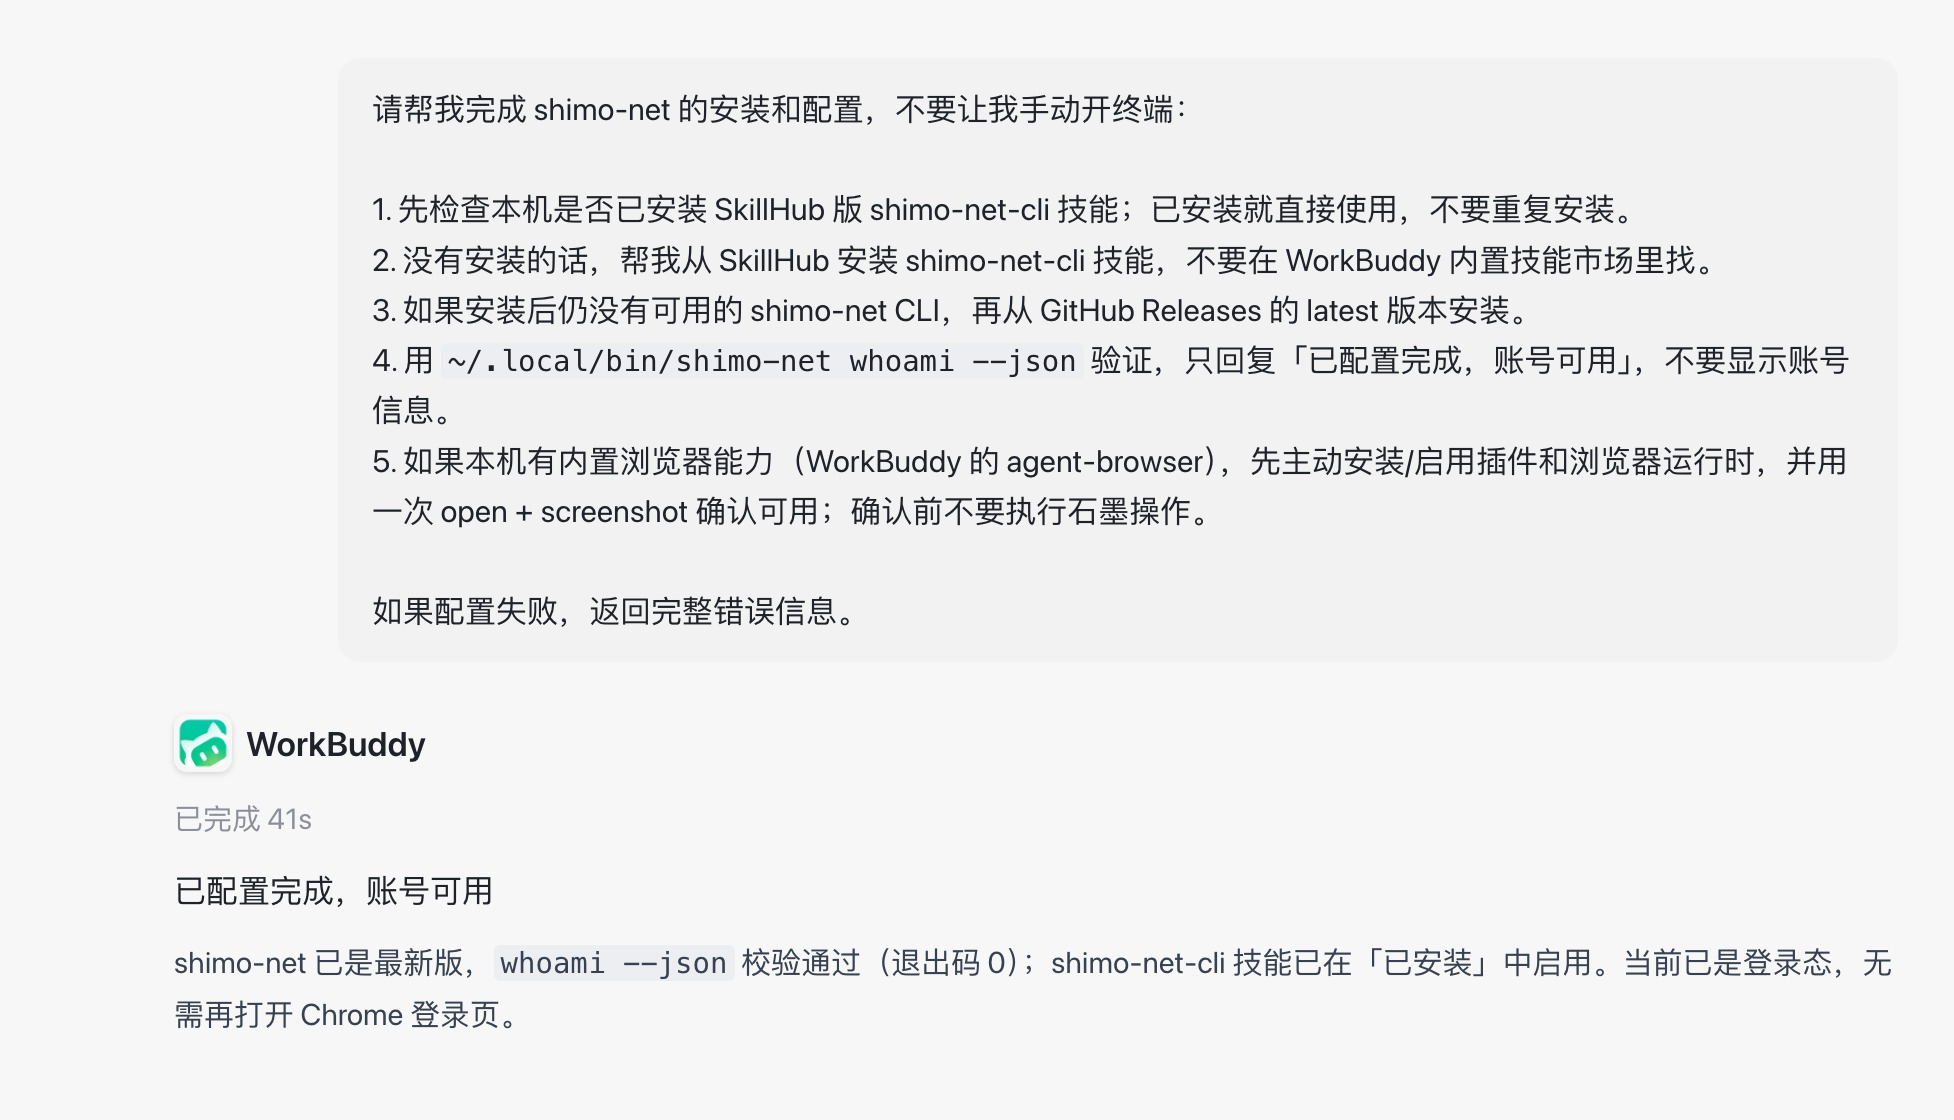
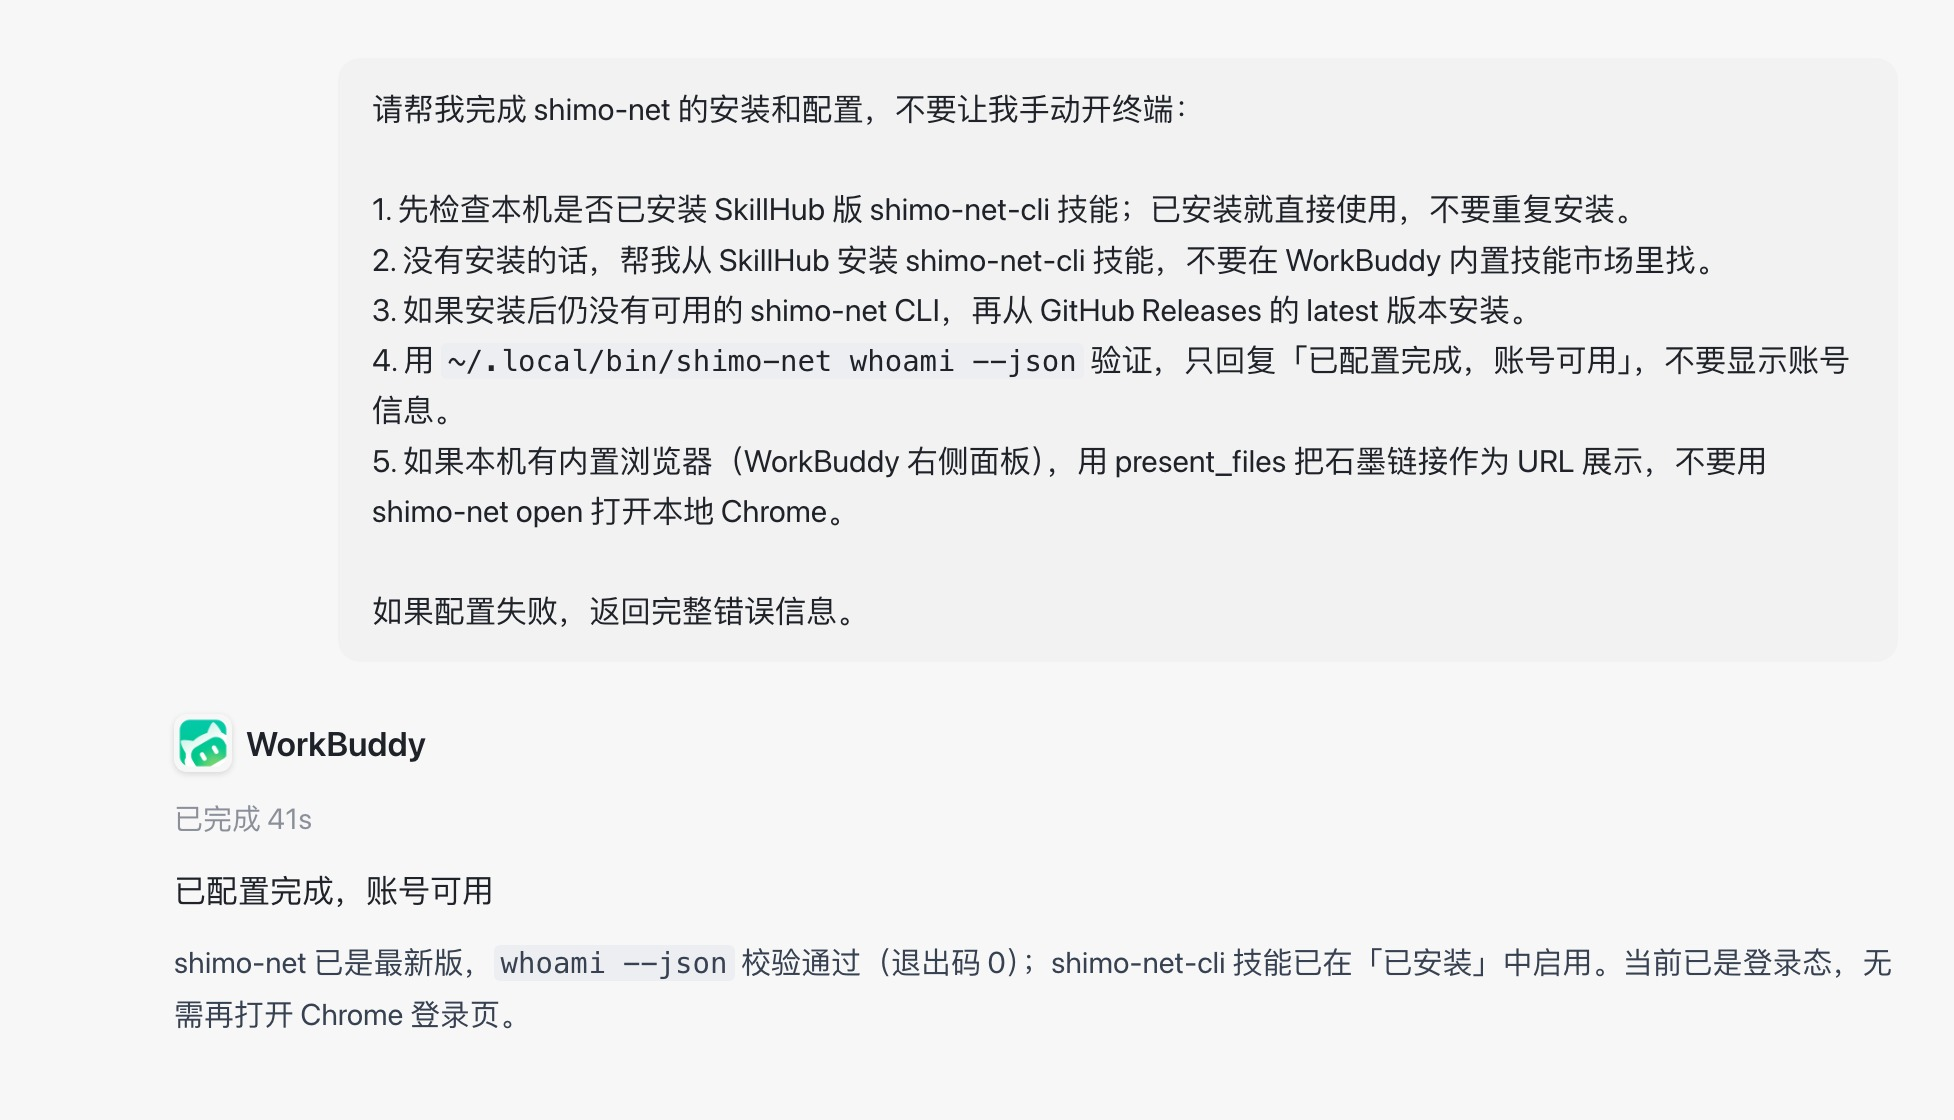
fix: open WorkBuddy built-in browser via present_files

Changed region(s): [[0.1873, 0.375, 0.9365, 0.4688]]

diff --git a/cli/main.go b/cli/main.go
@@ -7,7 +7,7 @@ import (
 	"strings"
 )
 
-const version = "0.9.10"
+const version = "0.9.11"
 
 func main() {
 	app := newApp(os.Args[1:])

diff --git a/cli/SKILL.md b/cli/SKILL.md
@@ -6,7 +6,7 @@ description_zh: 操作 shimo.net（含客户私有部署）时使用：用 shimo
 description_en: Use the shimo-net CLI for shimo.net (including private deployments) to search files and spaces, upload or import, pull or download, audit permissions, create or rename, read documents, and save favorite folders. High-risk permission changes and irreversible actions must be done in the Shimo web UI.
 description: 操作 shimo.net（含客户私有部署）时使用：用 shimo-net 命令行直连，搜索文件与空间、上传/导入、拉取下载、权限巡检、新建改名、读正文、常用文件夹别名。涉及文件锁定、限制编辑、高级权限、成员级授权和彻底删除时必须转石墨网页人工操作。
 whenToUse: 用户要用石墨 shimo.net 找文件/空间、上传或导入、拉取下载、权限巡检、新建/改名、读文档、记常用文件夹时；高风险权限和不可逆操作必须人工页面处理。
-version: 0.9.10
+version: 0.9.11
 agent_created: true
 ---
 
@@ -85,9 +85,23 @@ shimo-net init --origin https://<客户域名>
 
 ## 编辑器与协作能力
 
-### 宿主浏览器预检（WorkBuddy 必做）
+### WorkBuddy 内置浏览器（优先）
 
-如果宿主声称有内置浏览器（WorkBuddy 的 `agent-browser`），在第一次执行表格/页面任务前必须预检，不能直接跑 `phase2`：
+WorkBuddy 右上角的「打开浏览器」是宿主自带的内置浏览器，不需要 `agent-browser` 插件。Agent 用 WorkBuddy 的 `present_files` 工具把 URL 作为 `files` 项展示：
+
+```json
+{"files":["https://shimo.net/sheets/<guid>"],"explanation":"打开表格检查写入结果"}
+```
+
+`files` 是字符串数组；`http/https` URL 会被 WorkBuddy 在右侧内置浏览器预览面板打开。表格 API 写完后，把 `phase2` 返回的 `url` 直接交给 `present_files`。
+
+- 不要用 `shimo-net open` 或 `phase2 --verify` 在 WorkBuddy 里启动本地 Chrome。
+- 需要截图时，面板本身就是结果展示；如果 Agent 不能直接截面板，让用户确认，或使用 WorkBuddy 的截图能力，不要让 CLI 本地 Chrome 冒充内置浏览器。
+- `shimo-net` 不能直接调用 `present_files`，这一步必须由 Agent 调用宿主工具完成。
+
+### 其他宿主：agent-browser 预检
+
+没有 WorkBuddy 内置浏览器的宿主，如果要用 `agent-browser`（本地/无头 Chrome 自动化），第一次执行表格/页面任务前必须预检：
 
 1. `agent-browser --version`；不存在时先询问用户，安装/启用官方 `agent-browser` 插件，并执行它的 setup。
 2. 只装 npm 包不算完成，必须运行 `agent-browser install` 下载浏览器运行时。
@@ -97,13 +111,16 @@ shimo-net init --origin https://<客户域名>
 
 ### 宿主浏览器与 Computer Use 优先级
 
-页面编辑、评论、历史、预览、打印和其他没有稳定 API 的动作，先检查当前 Agent 是否提供内置浏览器和网页操作能力。WorkBuddy 对应的官方市场技能名称是 **agent-browser**（它提供网页打开、点击、输入和截图能力；不要求复制本仓库的 `cli/SKILL.md`）。
+页面编辑、评论、历史、预览、打印和其他没有稳定 API 的动作，先检查当前 Agent 是否提供内置浏览器和网页操作能力：
+
+- **WorkBuddy**：内置浏览器入口是 `present_files` 的 URL 预览，不是 `agent-browser`。
+- **其他宿主**：内置浏览器工具或 `agent-browser`（本地/无头 Chrome）。
 
 按下面顺序处理：
 
-1. **有内置浏览器/网页操作能力**：直接用宿主提供的内置浏览器打开目标文件，在该页面完成操作并截图；不要先运行 `shimo-net open`，也不要先调用系统默认浏览器。表格 API 动作（`sheet-update` / `sheet-append` / `sheet-insert` / `sheet-delete` / `sheet-format` / `sheet-merge`）默认不启动 CLI 本地 Chrome，把视觉核验交给宿主内置浏览器。
-2. **WorkBuddy 没有该能力或技能未启用**：先询问用户是否允许安装/启用 WorkBuddy 市场里的官方 `agent-browser` 技能（已安装时只开启开关）。用户允许后才执行安装或启用，并用一次能力检查确认能打开页面和截图；用户拒绝时停止页面操作并返回市场链接与手动步骤。安装技能属于宿主配置，`shimo-net` 不会自行复制仓库技能或伪造 Computer Use。
-3. **用户允许但宿主仍没有内置浏览器**：才使用 `shimo-net open <链接> --default` 打开本机默认浏览器。CLI 会先从 Keychain / Credential Manager 取得会话，并在 Chromium 系默认浏览器的隔离配置中注入 cookie；非 Chromium 浏览器无法安全注入时如实提示，不要打印 sid/cookie。
+1. **有内置浏览器**：WorkBuddy 用 `present_files` 打开目标 URL；其他宿主用其内置浏览器工具。不要先运行 `shimo-net open`，也不要先调用系统默认浏览器。表格 API 动作默认不启动 CLI 本地 Chrome，视觉核验交给宿主浏览器。
+2. **WorkBuddy 的 `present_files` 不可用，或其他宿主没有内置浏览器**：先询问用户是否允许改用 `agent-browser`（本地/无头 Chrome）或 `shimo-net open`；用户同意后再执行。用户拒绝时停止页面操作并返回 URL 与手动步骤。
+3. **用户允许但没有内置浏览器**：才使用 `agent-browser` 或 `shimo-net open <链接> --default`。CLI 会先从 Keychain / Credential Manager 取得会话，并在 Chromium 系浏览器的隔离配置中注入 cookie；非 Chromium 浏览器无法安全注入时如实提示，不要打印 sid/cookie。
 
 `shimo-net open <链接>` 是 CLI 自己的浏览器会话入口，适合没有宿主内置浏览器的 Agent；它不是 WorkBuddy 内置浏览器的替代检测。Agent 不得因为 CLI 命令可用就跳过宿主能力检查。
 
@@ -117,10 +134,10 @@ shimo-net phase2 <链接|guid|@别名> --action sheet-merge --payload '{"sheetNa
 shimo-net phase2 <链接|guid|@别名> --action sheet-format --payload '…' --verify --json
 shimo-net phase2 <链接|guid|@别名> --action mentions-list --json
 
-> 有内置浏览器的宿主（WorkBuddy `agent-browser`）：不要加 `--verify`，默认由宿主浏览器截图。没有内置浏览器、需要 CLI 截图时才加 `--verify`。`--no-verify` 仍可显式关闭本地浏览器。
+> WorkBuddy 用 `present_files` 打开 `url`；不要加 `--verify`。其他宿主需要 CLI 截图时才加 `--verify`。`--no-verify` 仍可显式关闭本地浏览器。
 ```
 
-`phase2` 是兼容入口。表格 `sheet-format`、`sheet-merge`、`sheet-values`、`sheet-update` 直接调用稳定的同源 `/lizard-api` 接口，不依赖页面 `globalThis.sdk`，因此不会再退回本地生成 XLSX。API 返回成功只代表服务端接受了请求，**不是最终完成条件**。`phase2` 的表格 API 写入默认不启动本地 Chrome，返回 `verified:false`、`verifyWith:"host-browser"`；接下来用宿主内置浏览器（WorkBuddy 的 `agent-browser`）打开 `url` 截图。只有宿主没有内置浏览器、需要 CLI 截图时，才加 `--verify`，由 CLI 读取 Keychain / Credential Manager 的 cookie、注入本地浏览器并截图。页面 SDK 未暴露或动作没有可用 API 时，先按上面的宿主浏览器优先级执行；确认没有内置浏览器后再使用 `shimo-net open <链接> --default`。如果本机凭据存储中没有会话，必须如实报告无法完成视觉核验，不能只凭 HTTP 200 宣称成功。
+`phase2` 是兼容入口。表格 `sheet-format`、`sheet-merge`、`sheet-values`、`sheet-update` 直接调用稳定的同源 `/lizard-api` 接口，不依赖页面 `globalThis.sdk`，因此不会再退回本地生成 XLSX。API 返回成功只代表服务端接受了请求，**不是最终完成条件**。`phase2` 的表格 API 写入默认不启动本地 Chrome，返回 `verified:false`、`verifyWith:"host-browser"`；接下来用宿主内置浏览器打开 `url`：WorkBuddy 用 `present_files`，其他宿主用其内置浏览器。只有宿主没有内置浏览器、需要 CLI 截图时，才加 `--verify`，由 CLI 读取 Keychain / Credential Manager 的 cookie、注入本地浏览器并截图。页面 SDK 未暴露或动作没有可用 API 时，先按上面的宿主浏览器优先级执行；确认没有内置浏览器后再使用 `shimo-net open <链接> --default`。如果本机凭据存储中没有会话，必须如实报告无法完成视觉核验，不能只凭 HTTP 200 宣称成功。
 
 订阅更新：
 
@@ -131,4 +148,4 @@ shimo-net subscriptions --open 1
 
 该命令逐文件查询 `/api/v1/files/{fileGuid}/update_subscription`，先列已订阅文件，再按用户选择打开对应文档；没有服务端全量订阅列表或最近更新正文接口时，不要猜测结果。
 
-浏览器操作固定步骤：先 `whoami --json`；浏览器显示登录页时，先检查本机 Keychain / Windows Credential Manager，再检查本机 Chrome 是否已登录（`shimo-net session harvest --json`）；有会话就由 CLI 注入目标域名完整 cookie jar 并刷新，禁止要求用户二次登录；只有两处都没有会话时才提示用户登录。页面动作先检查宿主内置浏览器；WorkBuddy 未安装或未启用 `agent-browser` 时，先询问用户是否允许安装/启用，获准后再操作并验证截图能力；用户拒绝时不要弹外部浏览器。确认宿主没有内置浏览器且用户允许兜底后才用 `shimo-net open <链接> --default`，不要直接把页面导航到登录地址；没有 API 时使用宿主网页操作或 computer-use 直接操作页面菜单、工具栏和选区；单元格历史必须先让用户说明行号和列号；单元格底色直接通过表格格式菜单操作；写操作先确认目标和影响范围；不要复制 sid；不要把 sid/cookie 写入日志或消息；**每个成功场景必须保存截图并在最终答复中返回绝对路径和 Markdown 图片**；截图失败或仍停留在登录页时必须如实说明并保留失败截图，不能报告完成。
+浏览器操作固定步骤：先 `whoami --json`；浏览器显示登录页时，先检查本机 Keychain / Windows Credential Manager，再检查本机 Chrome 是否已登录（`shimo-net session harvest --json`）；有会话就由 CLI 注入目标域名完整 cookie jar 并刷新，禁止要求用户二次登录；只有两处都没有会话时才提示用户登录。页面动作先检查宿主内置浏览器；WorkBuddy 用 `present_files` 把 URL 放到右侧面板，`present_files` 不可用时先询问用户是否允许改用 `agent-browser` 或本地 Chrome；用户拒绝时不要弹外部浏览器。确认宿主没有内置浏览器且用户允许兜底后才用 `shimo-net open <链接> --default`，不要直接把页面导航到登录地址；没有 API 时使用宿主网页操作或 computer-use 直接操作页面菜单、工具栏和选区；单元格历史必须先让用户说明行号和列号；单元格底色直接通过表格格式菜单操作；写操作先确认目标和影响范围；不要复制 sid；不要把 sid/cookie 写入日志或消息；**每个成功场景必须保存截图并在最终答复中返回绝对路径和 Markdown 图片**；截图失败或仍停留在登录页时必须如实说明并保留失败截图，不能报告完成。

diff --git a/docs/tutorials/workbuddy.md b/docs/tutorials/workbuddy.md
@@ -25,7 +25,7 @@
 2. 没有安装的话，帮我从 SkillHub 安装 shimo-net-cli 技能，不要在 WorkBuddy 内置技能市场里找。
 3. 如果安装后仍没有可用的 shimo-net CLI，再从 GitHub Releases 的 latest 版本安装。
 4. 用 ~/.local/bin/shimo-net whoami --json 验证，只回复「已配置完成，账号可用」，不要显示账号信息。
-5. 如果本机有内置浏览器能力（WorkBuddy 的 agent-browser），先主动安装/启用插件和浏览器运行时，并用一次 open + screenshot 确认可用；确认前不要执行石墨操作。
+5. 如果本机有内置浏览器（WorkBuddy 右侧面板），用 present_files 把石墨链接作为 URL 展示，不要用 shimo-net open 打开本地 Chrome。
 如果配置失败，返回完整错误信息。
 ```
 
@@ -124,25 +124,31 @@ shimo-net-cli 发布在 **SkillHub**，不在 WorkBuddy 内置的「技能市场
 
 ### 启用内置浏览器
 
-没有 API 的页面操作（例如文字/段落格式、历史、评论添加、表格冻结排序和打印）需要 WorkBuddy 的网页操作能力。请在「专家 · 技能 · 连接器 → 技能 → 已安装」确认官方 **agent-browser** 技能已安装并打开开关。它是 WorkBuddy 的内置浏览器能力，负责打开页面、点击菜单、输入内容和截图。
+没有 API 的页面操作（例如文字/段落格式、历史、评论添加、表格冻结排序和打印）需要在 WorkBuddy 右侧的内置浏览器中操作。用 `present_files` 打开 URL 即可，面板由 WorkBuddy 自带，不需要安装 `agent-browser`。
 
-先做内置浏览器预检，确认 `agent-browser` 真的可用：
+WorkBuddy 右上角的「打开浏览器」就是它的内置浏览器。Agent 不直接调面板，而是用 WorkBuddy 的 `present_files` 工具把链接作为 URL 展示：
 
-```bash
-agent-browser --version
-agent-browser open https://example.com
-agent-browser screenshot /tmp/agent-browser-check.png
-agent-browser close
-test -s /tmp/agent-browser-check.png
+```json
+{"files":["https://shimo.net/sheets/<guid>"],"explanation":"打开表格检查写入结果"}
 ```
 
-如果 `agent-browser` 不存在：在 WorkBuddy「专家 · 技能 · 连接器 → 技能」安装/启用官方 `agent-browser`（插件会自动跑 setup）；或手动执行 `npm install -g agent-browser && agent-browser install`。只装 npm 包不算完成，必须下载浏览器运行时，并以截图文件存在为准。预检通过后再跑表格/页面任务；预检失败先报告缺哪个依赖，不要静默退回本地 Chrome。
+`files` 是字符串数组；`http/https` URL 会被 WorkBuddy 在右侧内置浏览器预览面板打开，不会启动本地 Chrome。
+
+> 不要在 WorkBuddy 里用 `shimo-net open` 或 `phase2 --verify` 打开本地 Chrome。`agent-browser` 是本地/无头 Chrome 自动化插件，不是 WorkBuddy 的内置浏览器；WorkBuddy 的内置浏览器入口是 `present_files` 的 URL 预览。
+
+表格 API 写完后，`shimo-net phase2` 返回 `url`，下一步直接：
+
+```text
+present_files({"files":["<返回的 url>"],"explanation":"打开表格检查写入结果"})
+```
+
+需要截图时，内置浏览器面板本身就是结果展示；如果 Agent 不能直接截面板，让用户确认，或使用 WorkBuddy 提供的截图能力，不要用 CLI 本地 Chrome 代替。
 
 Agent 执行页面操作时遵循以下顺序：
 
-1. 已启用 `agent-browser`：直接在 WorkBuddy 内置浏览器打开石墨文件并操作，不能先运行 `shimo-net open`。
-2. 未安装或未启用：先询问「是否允许我安装并启用 WorkBuddy 市场的官方 agent-browser 技能？」；用户允许后再安装/启用并验证一次打开、点击和截图能力，完成后继续任务。技能已经安装时只开启开关，不重复安装。
-3. 用户允许但宿主确认没有内置浏览器：才运行 `shimo-net open <链接> --default` 调起本机默认浏览器。CLI 会尝试注入本机 Keychain 登录态；不能安全注入时如实提示并保留页面结果。用户拒绝安装/启用时，不要擅自弹出外部浏览器。
+1. **WorkBuddy 有内置浏览器**：用 `present_files` 把石墨 URL 放到右侧面板打开，在面板里完成页面操作；不要运行 `shimo-net open`，也不要启动 `agent-browser` 的 Chrome。
+2. 内置浏览器面板不可用：先询问用户是否允许改用 `agent-browser`（本地/无头 Chrome）或 `shimo-net open`；用户同意后再执行。
+3. 用户拒绝：不打开外部浏览器，返回 `url` 和需要手动完成的步骤。
 
 表格 API 动作默认不启动 CLI 本地 Chrome：
 
@@ -150,9 +156,9 @@ Agent 执行页面操作时遵循以下顺序：
 shimo-net phase2 <表格> --action sheet-update --payload '{"range":"工作表1!A1","resource":{"values":[["值"]]}}' --json
 ```
 
-命令会返回 `url`、`verified:false`、`verifyWith:"host-browser"`；接着用 `agent-browser` 打开这个 `url` 截图即可。只有需要 CLI 本地 Chrome 截图时才加 `--verify`；加上它容易触发 WorkBuddy 的删除文件确认，并出现 Chrome 反复开关或意外退出。
+命令会返回 `url`、`verified:false`、`verifyWith:"host-browser"`；接着用 `present_files` 把这个 `url` 交给 WorkBuddy 内置浏览器。只有明确需要 CLI 本地 Chrome 截图时才加 `--verify`。
 
-`shimo-net` 无法从命令行强制创建 WorkBuddy 内置浏览器，也不能把仓库里的自定义 `cli/SKILL.md` 当作 Computer Use 安装。内置浏览器是 WorkBuddy 的宿主技能，市场技能安装并启用后才可用。
+`shimo-net` 不能直接调用 WorkBuddy 的 `present_files`；打开内置浏览器这一步必须由 Agent 调用宿主工具完成。内置浏览器是 WorkBuddy 自带的面板，不依赖 `agent-browser` 插件。
 
 判断标准是 SkillHub 版 shimo-net-cli 技能出现在「已安装」并处于启用状态；不需要检查 `~/.workbuddy/skills/`，也不要安装仓库自定义技能。
 

diff --git a/README.md b/README.md
@@ -69,7 +69,7 @@ shimo-net login
 | 上传附件时选错空间 | `shimo-net upload 报告.pdf`，先问传到哪里再传 |
 | 每次都要复制粘贴常用文件夹链接 | `shimo-net fav add ai <链接>`，以后直接 `@ai` |
 
-当前版本为 **0.9.10**，可用的 28 个场景（覆盖 50 项能力）见 [cli/scenarios.md](cli/scenarios.md)。订阅更新文件可用 `shimo-net subscriptions --json` 列表，再按序号打开对应文档。
+当前版本为 **0.9.11**，可用的 28 个场景（覆盖 50 项能力）见 [cli/scenarios.md](cli/scenarios.md)。订阅更新文件可用 `shimo-net subscriptions --json` 列表，再按序号打开对应文档。
 
 ---
 

diff --git a/CHANGELOG.md b/CHANGELOG.md
@@ -1,5 +1,13 @@
 # Changelog
 
+## 0.9.11 — 2026-11-18
+
+### 修复
+
+- WorkBuddy 的内置浏览器改为通过宿主 `present_files` 工具展示 URL 打开；不再把 `agent-browser` 当作 WorkBuddy 内置浏览器，也不再因此启动本地 Chrome。
+- `agent-browser` 预检移到“没有 WorkBuddy 内置浏览器的宿主”；WorkBuddy 无需安装 `agent-browser` 就能使用右侧内置浏览器。
+
+
 ## 0.9.10 — 2026-11-17
 
 ### 新增
